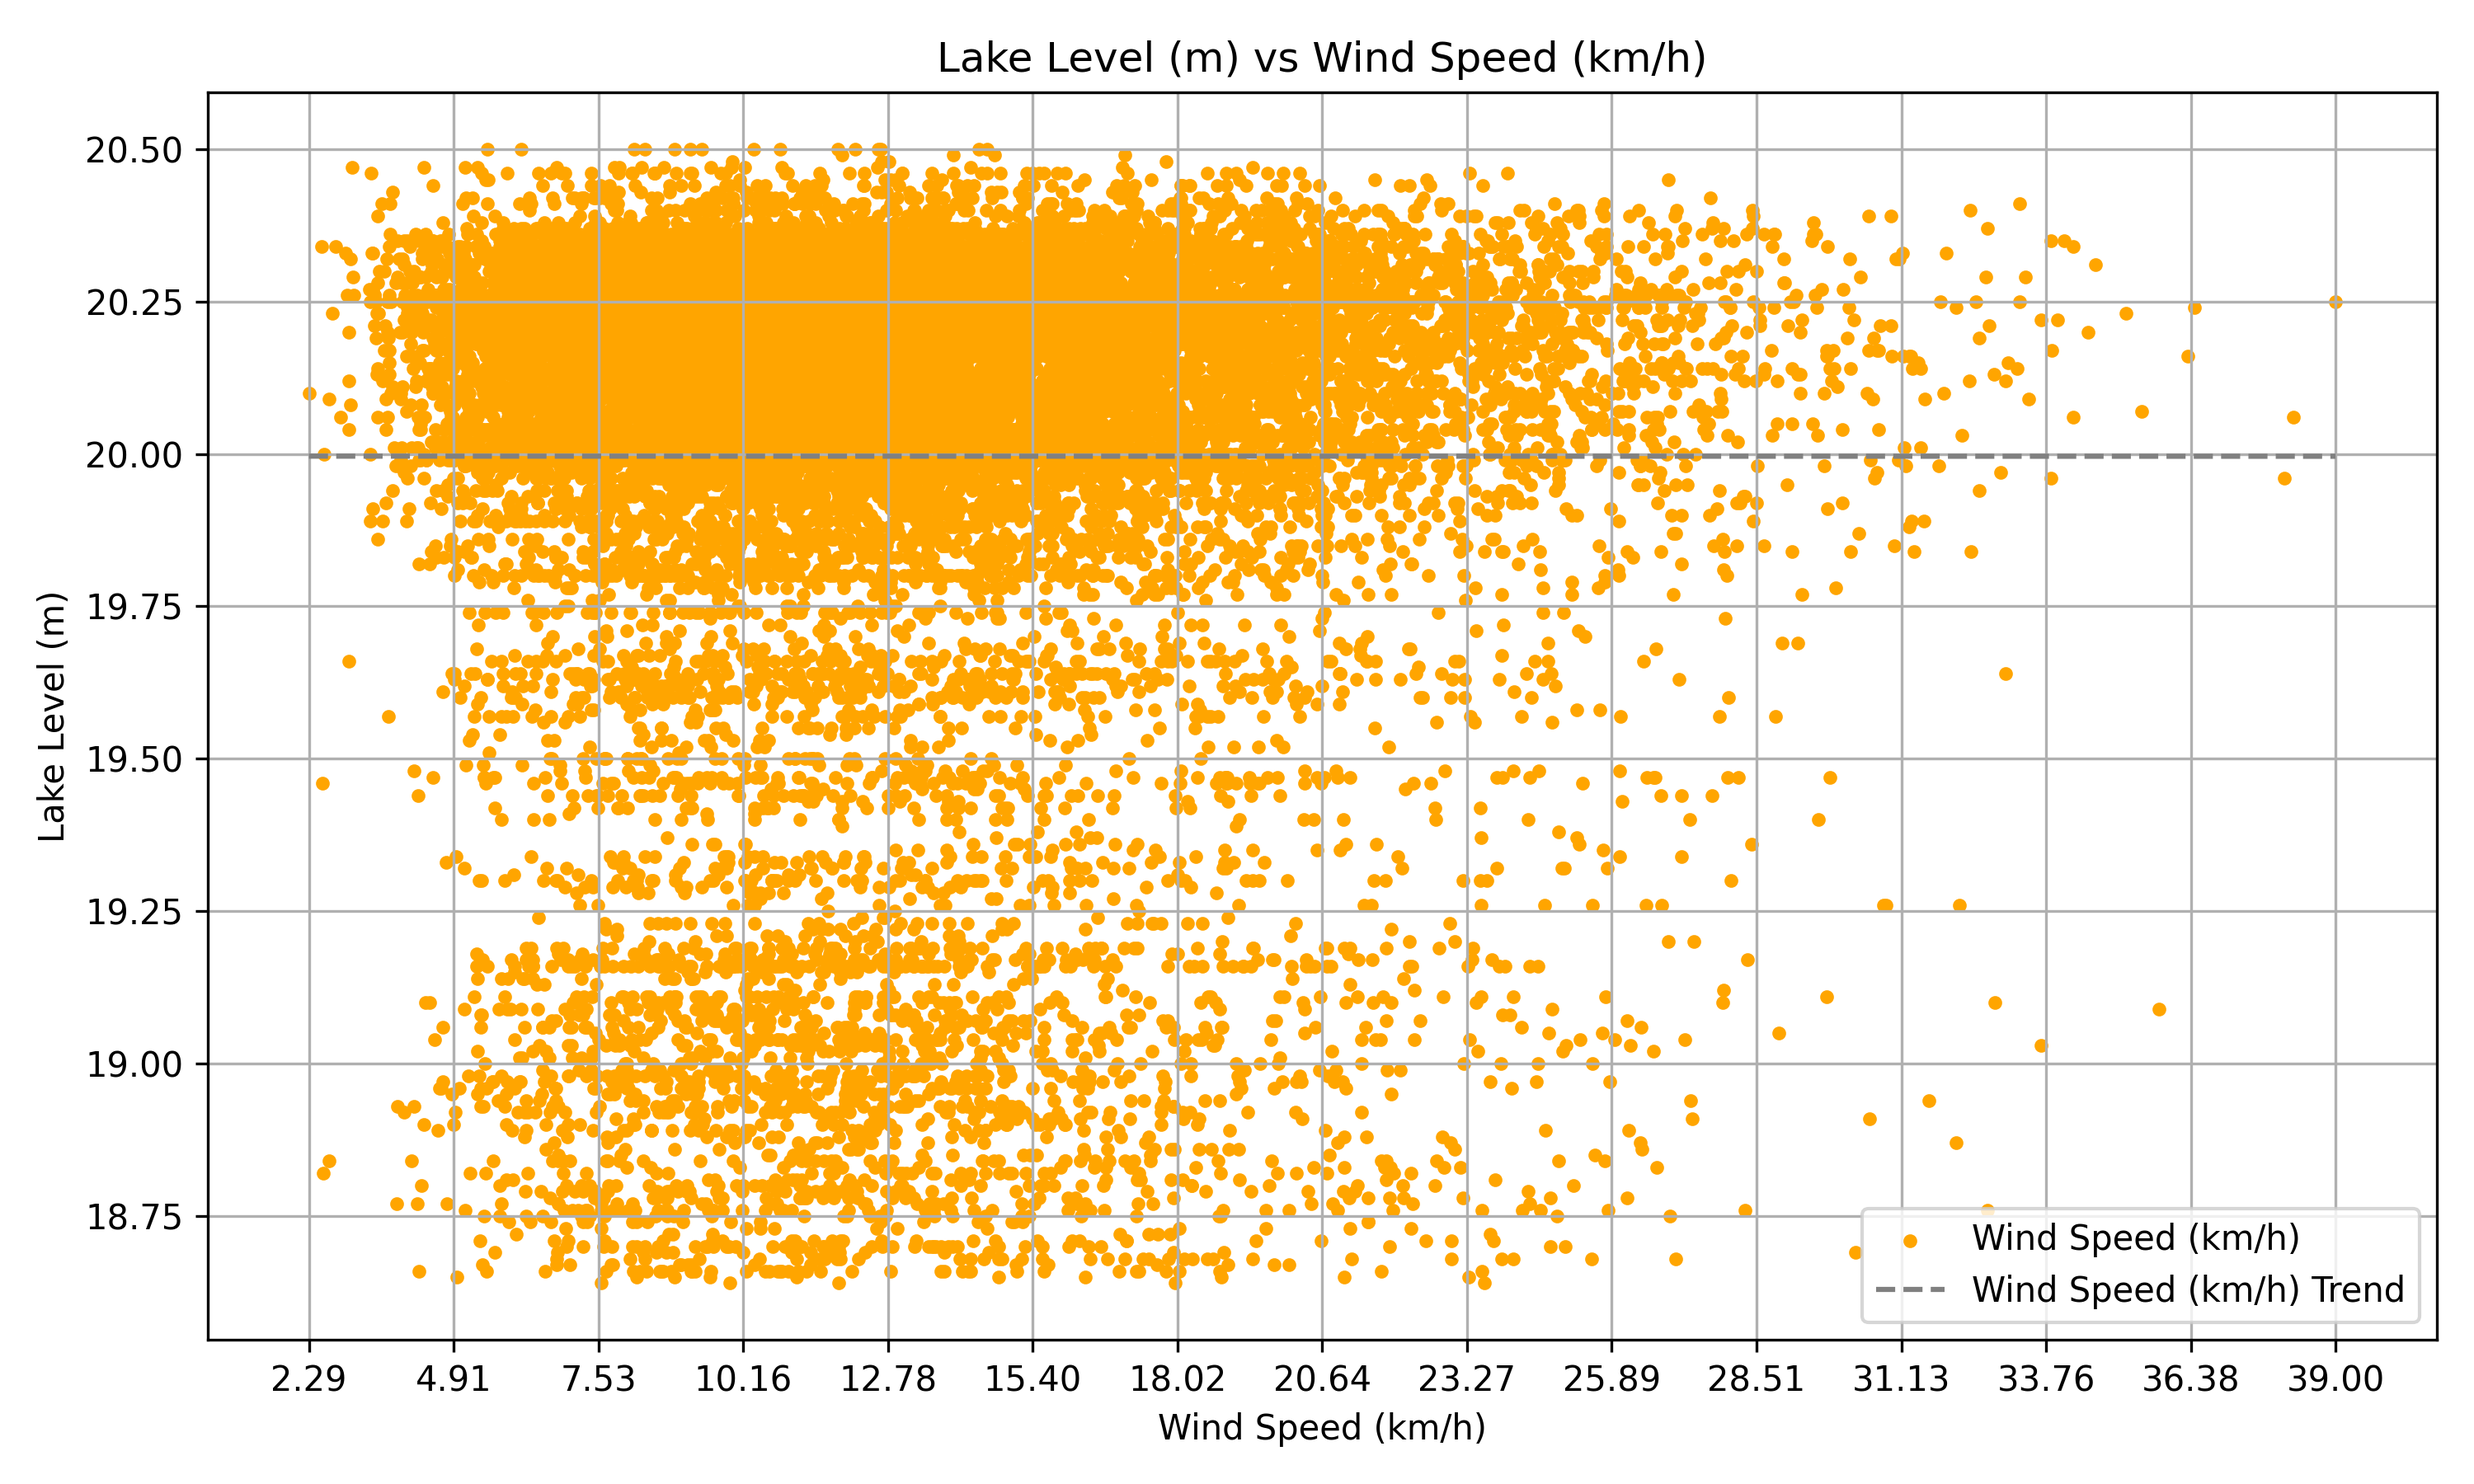
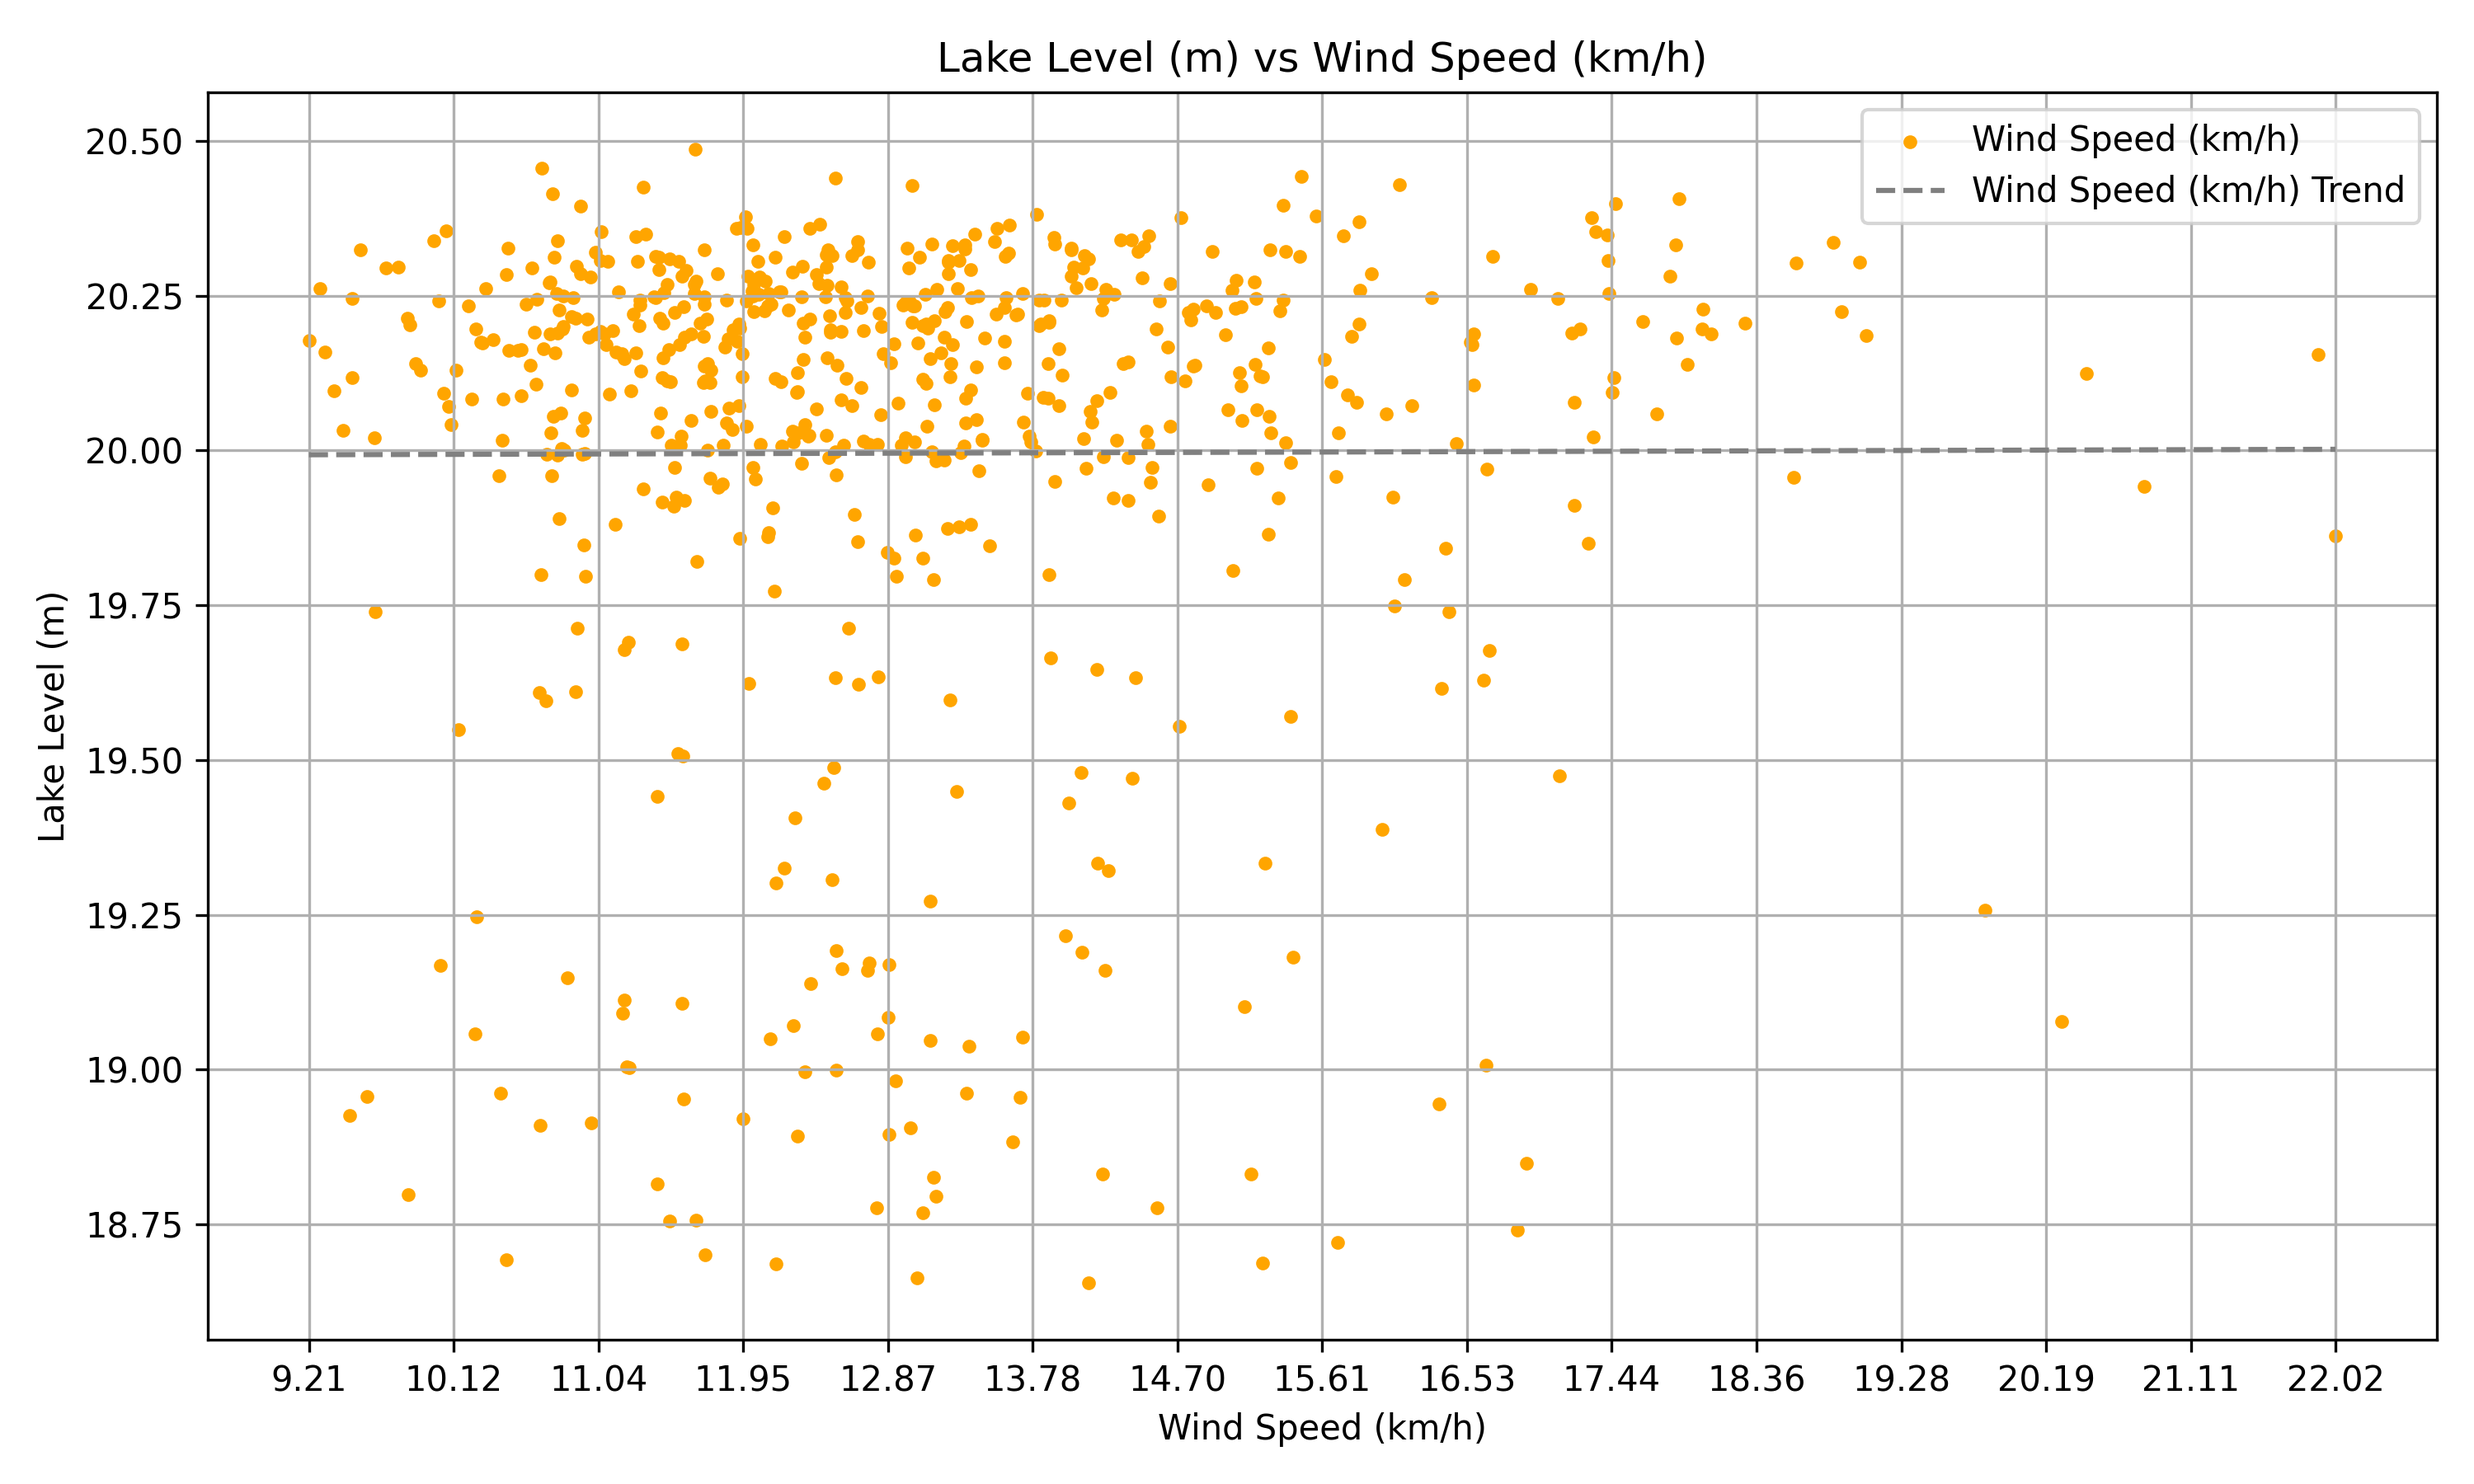
feat: dynamically adjust x-axis scale and exclude years with missing data to improve plot clarity

diff --git a/src/cli/main.py b/src/cli/main.py
@@ -137,11 +137,48 @@ def main() -> None:
 
     forecast_future_lake_level(data)
 
+    # Convert 'date' to datetime if not already
+    if not np.issubdtype(data['date'].dtype, np.datetime64):
+        data['date'] = pd.to_datetime(data['date'])
+
+    use_months = len(data) > 1000
+    use_years = len(data) > 3000
+
     for variable in variables:
-        generate_plots.plot_trend(data, variable, trend_folder_path)
+        if variable == 'lakelevel':
+            plot_data = data
+        else:
+            if use_years:
+                # Resample to yearly averages for non-lakelevel variables
+                yearly = data.set_index('date').resample('YE')
+                plot_data = yearly[variable].mean().reset_index()
+                if 'lakelevel' in data.columns and variable != 'lakelevel':
+                    plot_data['lakelevel'] = yearly['lakelevel'].mean().values
+
+                # Filter out incomplete years
+                # Count number of records per year, keep only years with at least 365 days (account for leap years)
+                year_counts = data.set_index('date').resample('YE').size().reset_index(name='count')
+                # Assume daily data: at least 365 days per year (could be 366 for leap years)
+                complete_years = year_counts[year_counts['count'] >= 365]['date']
+                plot_data = plot_data[plot_data['date'].isin(complete_years)].reset_index(drop=True)
+
+            elif use_months:
+                # Resample to monthly averages for non-lakelevel variables
+                plot_data = data.set_index('date').resample('ME')[variable].mean().reset_index()
+                if 'lakelevel' in data.columns and variable != 'lakelevel':
+                    plot_data['lakelevel'] = data.set_index('date')['lakelevel'].resample('M').mean().values
+            else:
+                plot_data = data
+
+        generate_plots.plot_trend(plot_data, variable, trend_folder_path, use_years=use_years)
 
         if variable != 'lakelevel':
-            generate_plots.plot_correlation(data, variable, correlation_folder_path)
+            if use_months:
+                # Correlation with months
+                monthly_data = data.set_index('date').resample('ME').mean().reset_index()
+                generate_plots.plot_correlation(monthly_data, variable, correlation_folder_path)
+            else:
+                generate_plots.plot_correlation(data, variable, correlation_folder_path)
     
     generate_plots.plot_seasonal_correlation(data, correlation_folder_path)
 

diff --git a/src/core/generate_plots.py b/src/core/generate_plots.py
@@ -52,7 +52,8 @@ def plot_trend(
     variable: str,
     path: str,
     marker_threshold: int = 50,
-    max_labels: int = 15
+    max_labels: int = 15,
+    use_years: bool = False
 ) -> None:
     """
     Plot the time series and trend line for a given variable.
@@ -83,9 +84,23 @@ def plot_trend(
     plt.ylabel(label)
     plt.title(f"{label} over time")
 
-    step = max(1, len(data) // max_labels)
-    xticks = data['date'][::step]  # Reduce number of x-ticks for readability
-    plt.xticks(xticks, rotation=45)
+    if use_years:
+        # Use years only for x labels, but limit to max_labels
+        years = pd.to_datetime(data['date']).dt.year
+        unique_years = np.sort(years.unique())
+        step = max(1, len(unique_years) // max_labels)
+        selected_years = unique_years[::step]
+        xticks = [data['date'][years[years == y].index[0]] for y in selected_years]
+        plt.xticks(
+            xticks,
+            [str(y) for y in selected_years],
+            rotation=45
+        )
+    else:
+        # Use normal dates with max label rule
+        step = max(1, len(data) // max_labels)
+        xticks = data['date'][::step]
+        plt.xticks(xticks, rotation=45)
 
     plt.grid(True)
     plt.legend()
@@ -115,10 +130,11 @@ def plot_correlation(
 
     label = VARIABLE_LABELS[variable]
     color = VARIABLE_GRAPH_COLORS[variable]
+    alpha = 0.25 if len(data) > 1000 else 1.0  # Adjust alpha for large datasets
     data = data[data[variable] != 0]  # Remove zero values for better correlation
     variable_values = data[variable]
 
-    plt.scatter(variable_values, data['lakelevel'], marker='.', color=color, label=label)
+    plt.scatter(variable_values, data['lakelevel'], marker='.', color=color, label=label, alpha=alpha)
 
     min_value = data[variable].min()
     max_value = data[variable].max()
